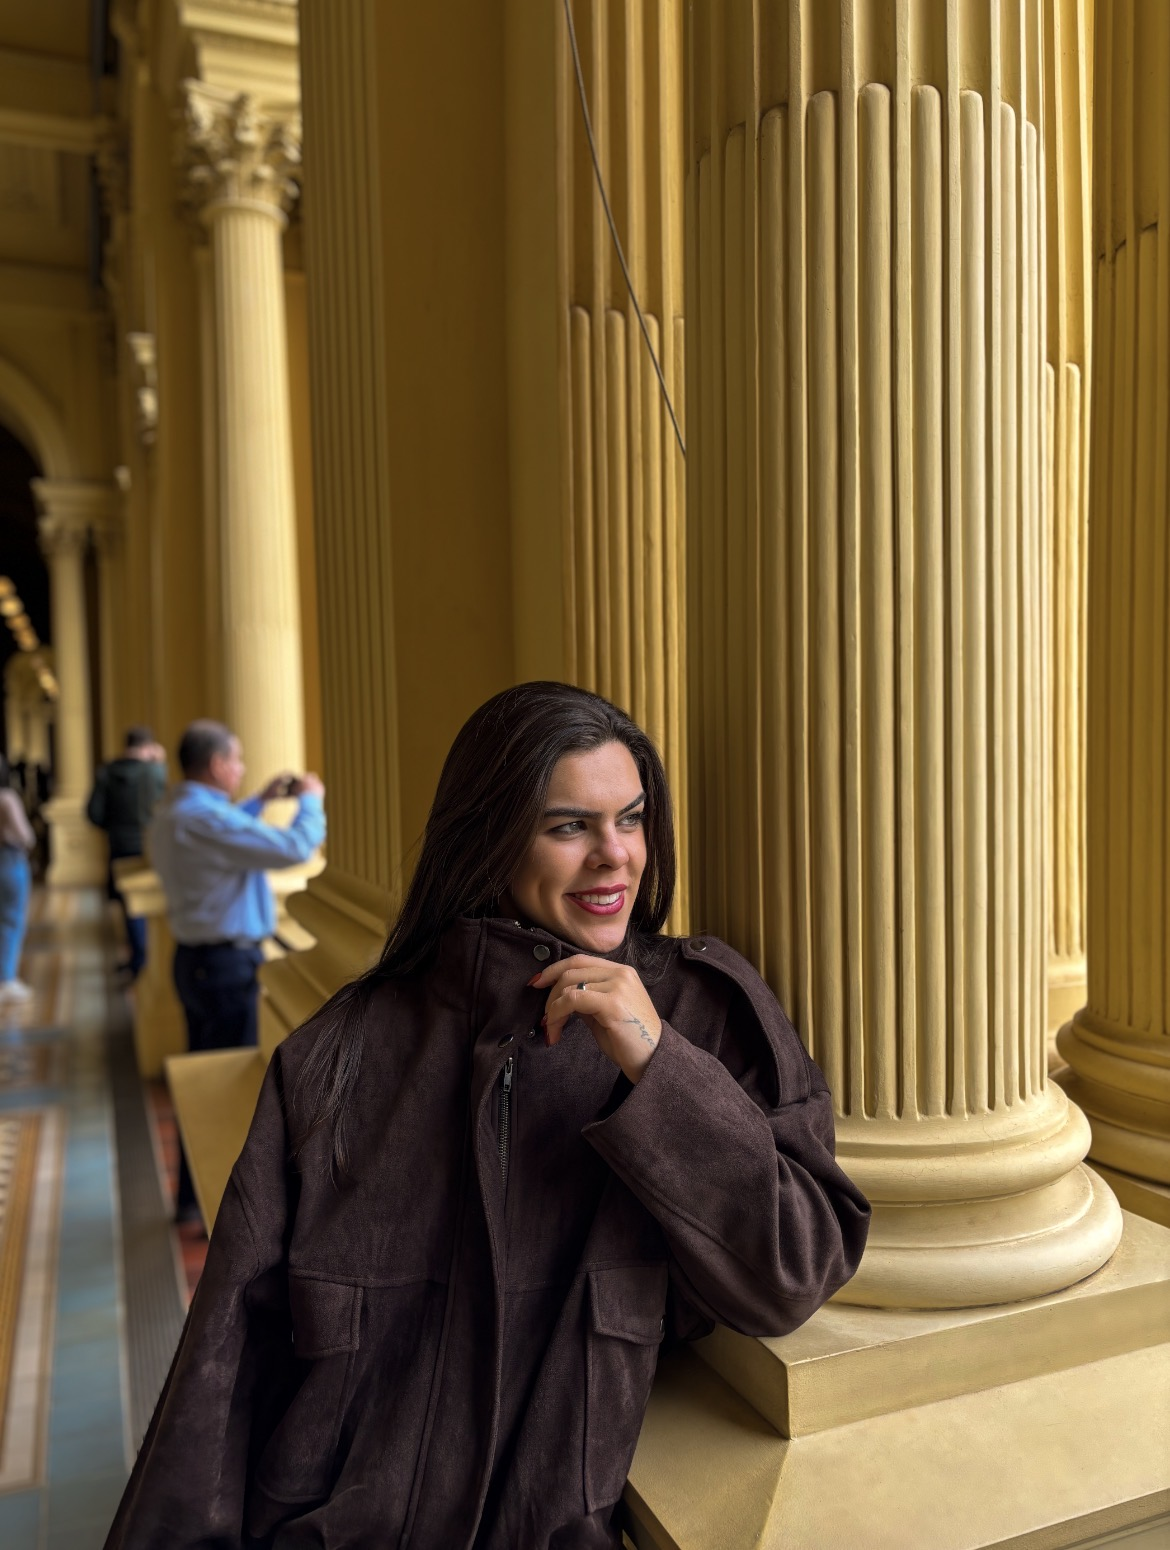
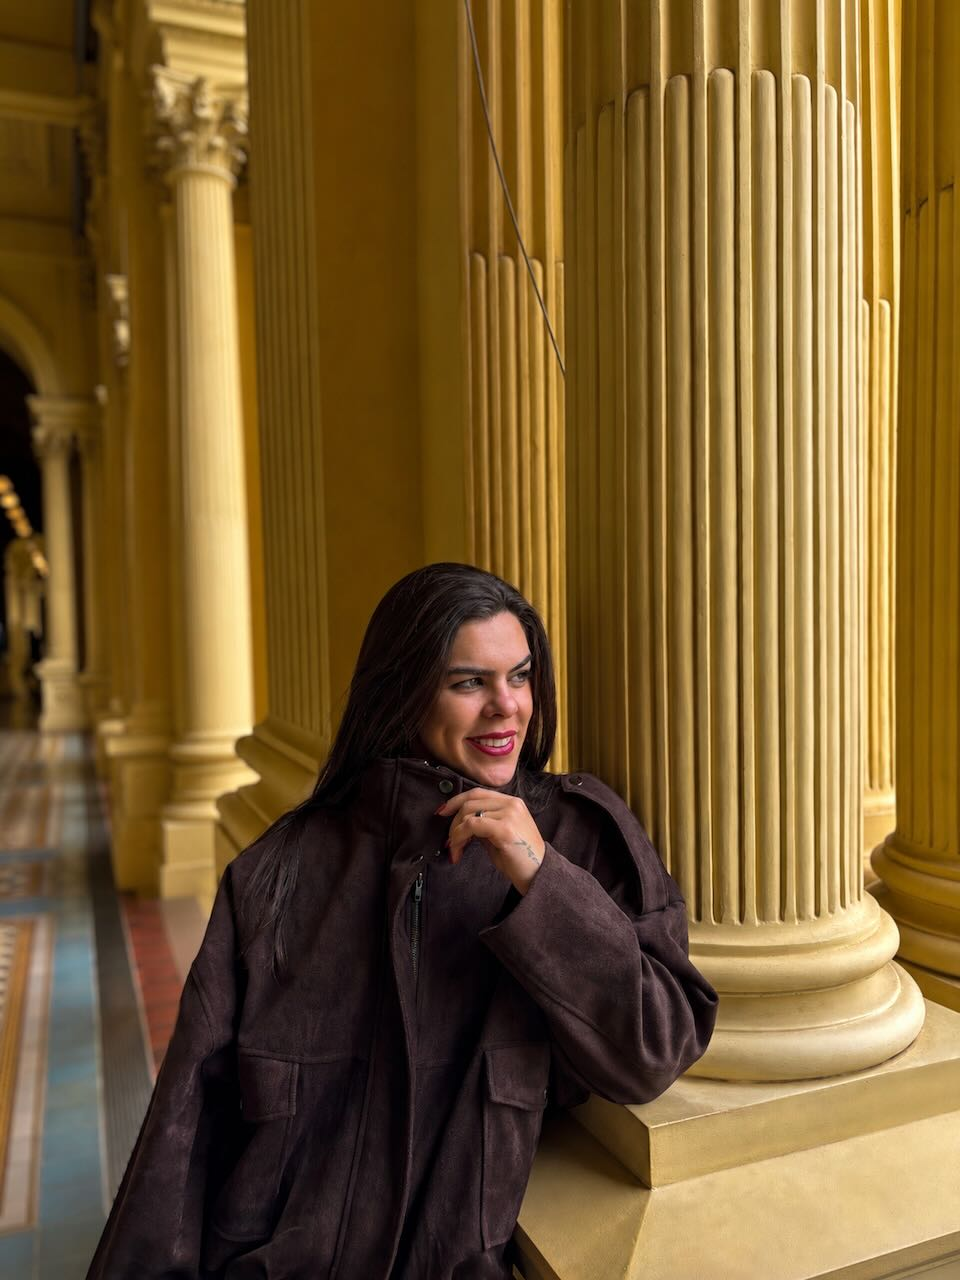
Atualiza fotos do hero e da secao Sobre

diff --git a/css/style.css b/css/style.css
@@ -26,7 +26,7 @@
     .btn-outline{display:inline-block;border:1px solid var(--earth);color:var(--earth);font-family:var(--sans);font-size:0.78rem;letter-spacing:0.1em;text-transform:uppercase;font-weight:500;padding:1rem 2rem;text-decoration:none;transition:all .2s;align-self:flex-start}
     .btn-outline:hover{background:var(--earth);color:var(--cream)}
     .hero-image{position:relative;overflow:hidden}
-    .hero-image img{width:100%;height:100%;object-fit:cover;object-position:center 35%;display:block}
+    .hero-image img{width:100%;height:100%;object-fit:cover;object-position:center 60%;display:block}
     .hero-tag{position:absolute;bottom:2rem;left:2rem;background:var(--white);padding:0.65rem 1.25rem;font-size:0.7rem;letter-spacing:0.12em;text-transform:uppercase;color:var(--bark);font-weight:500;border-left:3px solid var(--sage)}
     .s-eye{font-size:0.7rem;letter-spacing:0.2em;text-transform:uppercase;color:var(--sage);font-weight:500;margin-bottom:1rem}
     .s-title{font-family:var(--serif);font-size:clamp(2rem,3.5vw,3rem);font-weight:300;line-height:1.2;color:var(--earth);margin-bottom:2rem}
